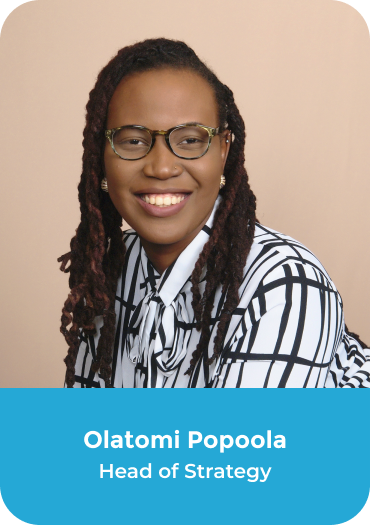
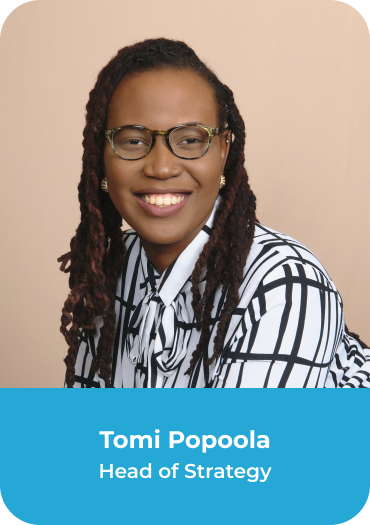
Modified Tomi Name

Changed region(s): [[0.2081, 0.8229, 0.773, 0.8838]]

diff --git a/routes/web.php b/routes/web.php
@@ -107,7 +107,7 @@ Route::get('who-we-are', function () {
         ],
         
         [
-            'name' => 'Olatomi Popoola',
+            'name' => 'Tomi Popoola',
             'position' => 'Head of Strategy',
             'list_image' => '/images/team_7.png', 
             'image' => '/images/team_detail_7.png', 
